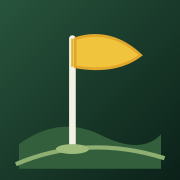
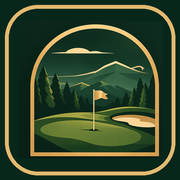
Fairway-v0.10.2
New Logo
Updated Iphone home screen icon
Top right version badge updated
redesigned start round selection
play a 9 hole course twice as 18
front 9/ back 9/ Full 18 selection
Automatically load saved tee details
Hide navigation when iphone keyboard opens
existing course emblems preserved

diff --git a/index.html b/index.html
@@ -13,14 +13,14 @@
 <link rel="stylesheet" href="./styles.css">
 </head>
 <body>
-<header><div class="brand"><span class="logo"><svg viewBox="0 0 64 64" fill="none" xmlns="http://www.w3.org/2000/svg"><path d="M7 52Q22 40 38 47T60 47V60H7Z" fill="#335f3d"/><path d="M5 59Q30 47 61 57" stroke="#8eaf72" stroke-width="2"/><path d="M25 13V53" stroke="#f2f1e4" stroke-width="2.5" stroke-linecap="round"/><path d="M26 13Q39 9 49 19Q40 25 26 23Z" fill="#f1c43e" stroke="#e2a82c" stroke-width="1"/><path d="M25 13L25 23" stroke="#e8b22b" stroke-width="1"/><ellipse cx="25" cy="54" rx="7" ry="2" fill="#9ebc7c"/></svg></span><div><h1>Fairway</h1><small>YOUR GOLF JOURNAL</small></div></div><span class="pill">v0.9.8</span></header>
+<header><div class="brand"><span class="logo"><img src="./assets/fairway-logo.png" alt="Fairway logo"></span><div><h1>Fairway</h1><small>YOUR GOLF JOURNAL</small></div></div><span class="pill">v0.10.2</span></header>
 <nav aria-label="Main navigation"><button data-tab="home" class="active"><span class="nav-icon" aria-hidden="true">⌂</span><span>Home</span></button><button data-tab="play"><span class="nav-icon" aria-hidden="true">⚑</span><span>Play</span></button><button data-tab="courses"><span class="nav-icon" aria-hidden="true">▤</span><span>Courses</span></button><button data-tab="history"><span class="nav-icon" aria-hidden="true">◷</span><span>History</span></button><button data-tab="player"><span class="nav-icon" aria-hidden="true">♙</span><span>Player</span></button><button data-tab="achievements"><span class="nav-icon" aria-hidden="true">★</span><span>Awards</span></button></nav>
 <main><div id="notice"></div>
 <section id="home"><div class="card hero home-hero"><small class="eyebrow">WELCOME TO FAIRWAY</small><h2>Every round tells a story.</h2><p>Track your progress. Celebrate your achievements. Enjoy every round.</p><button class="hero-cta" onclick="tab('play')">⚑ &nbsp; Start a round <span aria-hidden="true">→</span></button></div><div class="card featured-award" id="featuredAward"><small class="eyebrow">YOUR TOP ACHIEVEMENT</small><div class="featured-content"><span class="featured-emoji" id="featuredEmoji">🏆</span><div><h3 id="featuredTitle">Your first achievement awaits</h3><p id="featuredDescription">Save a round to start collecting awards.</p></div></div><button class="text-action" onclick="tab('achievements')">View all awards →</button></div><div class="section-head journey-heading"><h3>Your golf journey</h3><small>ALL-TIME STATISTICS</small></div><div class="home-stat-grid"><div class="home-stat"><span class="stat-icon">◷</span><strong id="nRounds">0</strong><small>Rounds played</small></div><div class="home-stat"><span class="stat-icon">⚑</span><strong id="nHoles">0</strong><small>Holes completed</small></div><div class="home-stat"><span class="stat-icon">◎</span><strong id="nPars">0</strong><small>Pars made</small></div><div class="home-stat"><span class="stat-icon">↗</span><strong id="nBest">—</strong><small>Best round to par</small></div></div><div class="card" id="handicapCard"><div class="section-head"><h3>Fairway handicap estimate</h3><span class="pill">BETA</span></div><div class="hcp-number" id="hcpValue">—</div><button class="text-action" onclick="tab('player')">View handicap progress →</button><p class="muted" id="hcpDescription">Save rated rounds to see your personal estimate.</p><details><summary>How is this calculated?</summary><p class="muted" style="font-size:13px">Personal playing-level estimate from all saved 9- and 18-hole rounds with valid ratings. For 9 holes, Fairway doubles the played-nine differential as a transparent approximation; this is NOT the WHS expected-score method. For 18 holes, net double bogey is applied only when complete Stroke Index data and an official reference HI are available. Nine-hole results remain approximate; exceptional scores, caps and other WHS rules are not applied. Not an official Handicap Index.</p></details></div><div class="card latest-round" id="latestRoundCard"><div class="section-head"><h3>Last time on the course</h3><span class="pill">LATEST ROUND</span></div><p class="muted" id="latestEmpty">Your latest round will appear here once you've saved a scorecard.</p><div id="latestDetails" class="hidden"><small id="latestDate"></small><div class="latest-score-row"><div><h3 id="latestCourse"></h3><div id="latestTee"></div></div><div class="latest-number"><strong id="latestScore"></strong><span id="latestDiff"></span></div></div><button class="text-action" onclick="tab('history')">View round history →</button></div></div><div class="card data-card"><div class="section-head"><h3>Your data</h3><span class="data-lock" aria-hidden="true">♧</span></div><p class="muted">Your rounds and courses are saved on this device, not in an online account. Export a backup regularly so you don't lose your golf journey if browser data is cleared.</p><div class="actions"><button onclick="exportBackup()">Export backup</button><button class="secondary" onclick="document.getElementById('backup').click()">Import backup</button></div><input id="backup" type="file" accept=".json,application/json" hidden onchange="importBackup(event)"></div></section>
 <section id="courses" class="hidden"><div class="section-head"><h2>My courses</h2><button id="addCourseToggle" class="course-add-toggle" type="button" onclick="openCourseEditor()">+ Add Course</button></div><div class="card"><h3>Saved courses</h3><div id="courseList"></div></div><div id="courseEditor" class="card hidden"><h3 id="courseFormHeading">Add a course</h3><label for="courseName">Course name</label><input id="courseName" placeholder="e.g. Golf Meggen"><label for="courseTees">Tees</label><select id="courseTees"><option value="Yellow">Yellow tees</option><option value="White">White tees</option><option value="Red">Red tees</option><option value="Blue">Blue tees</option><option value="Black">Black tees</option><option value="Orange">Orange tees</option><option value="Green">Green tees</option></select><label for="courseHoles">Number of holes</label><select id="courseHoles" onchange="resizeCoursePars()"><option value="9">9 holes</option><option value="18">18 holes</option></select><label for="courseCR">Course Rating (optional)</label><input id="courseCR" type="number" inputmode="decimal" step="0.1" placeholder="e.g. 35.7"><label for="courseSlope">Slope Rating (optional)</label><input id="courseSlope" type="number" inputmode="numeric" placeholder="e.g. 138"><div class="card" style="margin-bottom:0;padding:13px;background:#103023"><div class="section-head"><h3 style="margin:0">Set hole pars, distances & Stroke Index</h3><select id="autoPar" aria-label="Auto-fill all pars" style="width:auto;max-width:145px;font-size:13px;padding:9px 30px 9px 10px;min-height:42px" onchange="autoFillPars(this.value)"><option value="">Auto-fill</option><option value="3">All par 3</option><option value="4">All par 4</option><option value="5">All par 5</option></select></div><p class="muted" style="font-size:13px;margin:9px 0">Tap ▲ or ▼ to adjust par, and enter the distance from your selected tees. Distances and Stroke Index are optional. For Stroke Index, enter each number once (1–9 or 1–18).</p><label for="courseDistanceUnit">Distance unit</label><select id="courseDistanceUnit" onchange="changeCourseDistanceUnit(this.value)"><option value="m">Metres (m)</option><option value="yd">Yards (yd)</option></select><div class="pargrid distance-grid" id="courseParGrid"></div><div class="totalpar"><div><strong style="font-size:14px">Total distance</strong><br><small>Known holes only</small></div><strong id="courseTotalDistance">—</strong></div><div class="totalpar"><div><strong style="font-size:14px">Total par</strong><br><small id="parCount">9 holes</small></div><strong id="courseTotalPar">36</strong></div></div><p><button id="courseSaveButton" style="width:100%" onclick="addCourse()">Save course</button><button id="courseCancelButton" class="secondary hidden" style="width:100%;margin-top:8px" onclick="cancelEditCourse()">Cancel editing</button></p></div></section>
-<section id="play" class="hidden"><h2>Play a round</h2><div id="setup" class="card"><label for="courseSelect">Select a saved course</label><select id="courseSelect"></select><label for="roundConfig">Tees and holes</label><select id="roundConfig"></select><label for="roundDate">Date</label><input id="roundDate" type="date"><label class="player-check"><input type="checkbox" id="roundEligible" onchange="if(this.checked)document.getElementById('roundTest').checked=false"> WHS-eligible round (for separate estimate)</label><label class="player-check"><input type="checkbox" id="roundTest" onchange="if(this.checked)document.getElementById('roundEligible').checked=false"> Test round (exclude from both HCP estimates)</label><div class="tracking-choice"><strong>How would you like to play?</strong><label class="tracking-option"><input type="radio" name="roundMode" value="score" checked><span><b>Quick scorecard</b><small>Just enter strokes for each hole</small></span></label><label class="tracking-option"><input type="radio" name="roundMode" value="detailed"><span><b>Detailed round</b><small>Strokes, putts, tee shots, approaches and penalties</small></span></label></div><p><button onclick="startRound()">Start scorecard →</button></p><small>Set up your courses in the Courses tab first.</small></div><div id="playing" class="hidden"><div class="card"><div class="score-top"><div><small id="activeCourse"></small><div id="activeTeeBadge"></div><h2 id="activeHole" style="margin:5px 0"></h2><span id="activeProgress" class="pill"></span></div><div style="text-align:right"><small>ROUND TOTAL</small><div class="number" id="activeTotal">0</div><small id="activeDiff">E</small></div></div><div class="holes" id="holeNav"></div></div><div class="card"><div class="par-display"><span class="hole-indicator"><small>CURRENT HOLE</small><strong id="holeNumberDisplay">Hole 1</strong></span><span class="par-indicator"><small>HOLE PAR</small><strong id="holeParDisplay">Par 4</strong></span></div><p id="holeStrokeIndexDisplay" style="text-align:center;margin:0 0 8px"><span class="si-pill">Stroke Index —</span></p><p id="holeDistanceDisplay" class="muted" style="text-align:center;margin:-4px 0 15px">Distance not entered</p><label style="text-align:center">STROKES</label><div class="stepper"><button class="secondary" onclick="changeStrokes(-1)">−</button><strong id="strokesNumber">—</strong><button onclick="changeStrokes(1)">+</button></div><p class="muted" id="holeStatus" style="text-align:center"></p><div id="holeTracking" class="hole-tracking hidden"><h3>Shot tracking <small class="pill">OPTIONAL FIELDS</small></h3><div class="tracking-grid"><label>Putts<input id="trackPutts" type="number" inputmode="numeric" min="0" max="15" placeholder="—" onchange="setHoleStat('putts',this.value)"></label><label>Tee shot direction<select id="trackTee" onchange="setHoleStat('tee',this.value)"><option value="">Not recorded</option><option value="straight">Straight</option><option value="left">Left</option><option value="right">Right</option></select></label><label>Shot shape<select id="trackShape" onchange="setHoleStat('shape',this.value)"><option value="">Not recorded</option><option value="straight">Straight</option><option value="draw">Draw</option><option value="fade">Fade</option><option value="hook">Hook</option><option value="slice">Slice</option></select></label><label>Approach<select id="trackApproach" onchange="setHoleStat('approach',this.value)"><option value="">Not recorded</option><option value="green">Green hit</option><option value="short">Short</option><option value="long">Long</option><option value="left">Left</option><option value="right">Right</option></select></label><label>Penalty strokes<input id="trackPenalties" type="number" inputmode="numeric" min="0" max="20" placeholder="—" onchange="setHoleStat('penalties',this.value)"></label><label>Out of bounds<select id="trackOb" onchange="setHoleStat('ob',this.value)"><option value="">Not recorded</option><option value="no">No</option><option value="yes">Yes</option></select></label></div></div><div class="actions"><button class="secondary" onclick="moveHole(-1)">← Previous</button><button onclick="moveHole(1)">Next →</button></div></div><div class="card"><div class="actions"><button onclick="finishRound()">Finish round</button><button class="danger" onclick="discardRound()">Discard</button></div><p class="muted">Your unfinished round saves automatically.</p></div></div></section>
-<section id="history" class="hidden"><div class="section-head"><h2>Round history</h2><span class="pill" id="historyCount">0 rounds</span></div><div id="historyList"></div></section><section id="editRound" class="hidden"><div class="section-head"><h2>Edit round</h2><span class="pill">v0.10</span></div><div class="card"><h3 id="editCourseName"></h3><div id="editTeeBadge"></div><label for="editTeeSelect">Tees played</label><select id="editTeeSelect" onchange="changeEditedRoundTees(this.value)"></select><p id="editTeeHint" class="muted" style="font-size:13px">Select the tees you actually played. Fairway will use their saved Course Rating and Slope.</p><label for="editFormat">Holes played</label><select id="editFormat" onchange="changeEditedRoundFormat(this.value)"></select><label for="editDate">Date played</label><input type="date" id="editDate"><p class="muted" style="font-size:13px">The date is displayed as DD.MM.YYYY in History. Your phone may display the date picker in its own regional format.</p><label class="player-check"><input type="checkbox" id="editEligible" onchange="if(this.checked)document.getElementById('editTest').checked=false"> WHS-eligible round</label><label class="player-check"><input type="checkbox" id="editTest" onchange="if(this.checked)document.getElementById('editEligible').checked=false"> Test round (exclude from HCP)</label><h3 style="margin-top:22px">Hole-by-hole scores</h3><div id="editHoleList"></div><div class="totalpar"><strong style="font-size:14px">Updated total</strong><strong id="editTotal">0</strong></div><div class="actions" style="margin-top:18px"><button onclick="saveEditedRound()">Save changes</button><button class="secondary" onclick="cancelEditRound()">Cancel</button></div></div></section>
-<section id="player" class="hidden"><div class="section-head"><h2>My Player</h2><span class="pill">YOUR GOLF JOURNEY</span></div><div class="card"><div class="section-head"><h3>Handicap overview</h3><span class="pill">PERSONAL ESTIMATES</span></div><div class="player-grid"><div class="player-metric"><small>PERSONAL HCP</small><strong id="playerPersonalHcp">—</strong><small>All rated, non-test rounds</small></div><div class="player-metric"><small>WHS-STYLE ESTIMATE</small><strong id="playerWhsHcp">—</strong><small>Marked eligible rounds</small></div></div><div class="official-hcp-display"><small>YOUR OFFICIAL SWISS GOLF HCP</small><strong id="officialHcpDisplay">—</strong><small>Manually entered · used as a reference for eligible score adjustments</small></div><details class="edit-panel"><summary>✎ Edit official handicap</summary><label for="officialHcp">Update official Swiss Golf Handicap Index</label><input id="officialHcp" type="number" inputmode="decimal" min="0" max="54" step="0.1" placeholder="e.g. 51.6" onchange="setOfficialHcp(this.value)"></details><p class="muted" style="font-size:13px">Official HCP is manually entered. Both Fairway calculations remain estimates: 9-hole scores still use an approximation. 18-hole net double bogey requires complete Stroke Index data and your entered official HI; other WHS adjustments remain outstanding.</p><button class="secondary" onclick="tab('hcp')">View handicap chart & differentials →</button></div><div class="card"><div class="section-head"><h3>My golf bag</h3><span class="pill">STOCK DISTANCES</span></div><div class="bag-unit"><label for="clubUnit">Distance unit</label><select id="clubUnit" onchange="setClubUnit(this.value)"><option value="m">Metres</option><option value="yd">Yards</option></select></div><div id="clubDistanceChart" class="club-distance-chart"></div><details class="edit-panel" id="clubEditor"><summary>✎ Edit clubs</summary><div id="clubList"></div><div class="actions"><button onclick="addClub()">+ Add club</button></div></details><p class="muted" style="font-size:13px">Enter your typical carry distance. Your clubs are saved on this device and included in backups.</p></div><div class="card"><div class="section-head"><h3>Performance</h3><span class="pill">TRACKED ROUNDS</span></div><div id="performanceSummary"></div><p class="muted" style="font-size:12px">Only entered tracking data is counted. Older score-only rounds are not treated as missed shots.</p></div></section><section id="hcp" class="hidden"><div class="section-head"><h2>Handicap progress</h2><button class="secondary" onclick="tab('player')">← Player</button><span class="pill">PERSONAL ESTIMATE</span></div><p class="muted">Every saved round with a valid Course Rating and Slope Rating contributes automatically. Editing or deleting rounds recalculates your history.</p><div class="hcp-overview"><div class="card"><small>FAIRWAY HCP</small><div class="hcp-number" id="hcpDetailValue">—</div><small id="hcpTrend">Your playing-level estimate</small></div><div class="card"><small>ROUNDS WITH RATINGS</small><div class="hcp-number" id="hcpRoundCount">0</div><small id="hcpHoleCount">0 holes recorded</small></div></div><div class="card"><div class="section-head"><h3>Handicap journey</h3><span class="pill">ROUND BY ROUND</span></div><div id="hcpChart" class="hcp-chart"></div><p class="muted" id="hcpChartCaption">Add rounds to see your progression.</p></div><div class="card"><h3>Round differentials</h3><div id="hcpRoundList"></div></div><div class="card"><h3>How Fairway estimates HCP</h3><p class="muted">This is a personal playing-level indicator, <strong>not an official WHS Handicap Index</strong>. Each rated 18-hole round uses (adjusted gross score − Course Rating − PCC) × 113 / Slope. Adjustment requires a complete Stroke Index and your entered official HI; otherwise gross score is used. For 9-hole rounds we double that nine-hole differential as a simple approximation, NOT the official WHS expected-score calculation. We use a WHS-inspired best-differentials selection over the latest 20 rated rounds, but do not automatically determine PCC, exceptional-score adjustments, soft/hard caps, or other official requirements. An entered official HI is only a reference, not a reconstructed historical HI. Unrated rounds remain in History and Awards but cannot produce a differential. Negative results may occur for exceptionally good rounds.</p></div></section><section id="achievements" class="hidden"><div class="section-head"><h2>Achievements</h2><span class="pill">Career totals</span></div><p class="muted">Earned from your completed, saved rounds. Delete a round and its achievements disappear automatically.</p><div class="award-grid" id="awardGrid"></div><div class="card"><h3>Career milestones</h3><div id="milestoneList"></div></div></section><div class="footer">FAIRWAY v0.10.0 · BUILT FOR THE LOVE OF GOLF</div></main>
+<section id="play" class="hidden"><h2>Play a round</h2><div id="setup" class="card"><div class="u-play-heading"><span class="u-play-icon" id="playCourseIcon"></span><div><strong>Ready to play?</strong><small>Choose your course and start scoring</small></div></div><label for="courseSelect">Golf course</label><select id="courseSelect"></select><label>Round length</label><div class="u-choice-row" id="playLengths"><button type="button" data-length="9" onclick="uSetPlayLength(9)">9 holes</button><button type="button" data-length="18" onclick="uSetPlayLength(18)">18 holes</button></div><div id="playNineWrap" class="hidden"><label for="playNine">Which nine?</label><select id="playNine" onchange="uUpdateRoundOptions()"><option value="front">Front 9</option><option value="back">Back 9</option></select></div><label for="playTee">Tees</label><select id="playTee" onchange="uUpdateRoundOptions()"></select><div id="playCourseSummary" class="u-play-summary"></div><select id="roundConfig" class="hidden" aria-label="Resolved tee configuration"></select><label for="roundDate">Date</label><input id="roundDate" type="date"><label class="player-check"><input type="checkbox" id="roundEligible" onchange="if(this.checked)document.getElementById('roundTest').checked=false"> WHS-eligible round (for separate estimate)</label><label class="player-check"><input type="checkbox" id="roundTest" onchange="if(this.checked)document.getElementById('roundEligible').checked=false"> Test round (exclude from both HCP estimates)</label><div class="tracking-choice"><strong>How would you like to play?</strong><label class="tracking-option"><input type="radio" name="roundMode" value="score" checked><span><b>Quick scorecard</b><small>Just enter strokes for each hole</small></span></label><label class="tracking-option"><input type="radio" name="roundMode" value="detailed"><span><b>Detailed round</b><small>Strokes, putts, tee shots, approaches and penalties</small></span></label></div><p><button onclick="startRound()">Start scorecard →</button></p><small>Set up your courses in the Courses tab first.</small></div><div id="playing" class="hidden"><div class="card"><div class="score-top"><div><small id="activeCourse"></small><div id="activeTeeBadge"></div><h2 id="activeHole" style="margin:5px 0"></h2><span id="activeProgress" class="pill"></span></div><div style="text-align:right"><small>ROUND TOTAL</small><div class="number" id="activeTotal">0</div><small id="activeDiff">E</small></div></div><div class="holes" id="holeNav"></div></div><div class="card"><div class="par-display"><span class="hole-indicator"><small>CURRENT HOLE</small><strong id="holeNumberDisplay">Hole 1</strong></span><span class="par-indicator"><small>HOLE PAR</small><strong id="holeParDisplay">Par 4</strong></span></div><p id="holeStrokeIndexDisplay" style="text-align:center;margin:0 0 8px"><span class="si-pill">Stroke Index —</span></p><p id="holeDistanceDisplay" class="muted" style="text-align:center;margin:-4px 0 15px">Distance not entered</p><label style="text-align:center">STROKES</label><div class="stepper"><button class="secondary" onclick="changeStrokes(-1)">−</button><strong id="strokesNumber">—</strong><button onclick="changeStrokes(1)">+</button></div><p class="muted" id="holeStatus" style="text-align:center"></p><div id="holeTracking" class="hole-tracking hidden"><h3>Shot tracking <small class="pill">OPTIONAL FIELDS</small></h3><div class="tracking-grid"><label>Putts<input id="trackPutts" type="number" inputmode="numeric" min="0" max="15" placeholder="—" onchange="setHoleStat('putts',this.value)"></label><label>Tee shot direction<select id="trackTee" onchange="setHoleStat('tee',this.value)"><option value="">Not recorded</option><option value="straight">Straight</option><option value="left">Left</option><option value="right">Right</option></select></label><label>Shot shape<select id="trackShape" onchange="setHoleStat('shape',this.value)"><option value="">Not recorded</option><option value="straight">Straight</option><option value="draw">Draw</option><option value="fade">Fade</option><option value="hook">Hook</option><option value="slice">Slice</option></select></label><label>Approach<select id="trackApproach" onchange="setHoleStat('approach',this.value)"><option value="">Not recorded</option><option value="green">Green hit</option><option value="short">Short</option><option value="long">Long</option><option value="left">Left</option><option value="right">Right</option></select></label><label>Penalty strokes<input id="trackPenalties" type="number" inputmode="numeric" min="0" max="20" placeholder="—" onchange="setHoleStat('penalties',this.value)"></label><label>Out of bounds<select id="trackOb" onchange="setHoleStat('ob',this.value)"><option value="">Not recorded</option><option value="no">No</option><option value="yes">Yes</option></select></label></div></div><div class="actions"><button class="secondary" onclick="moveHole(-1)">← Previous</button><button onclick="moveHole(1)">Next →</button></div></div><div class="card"><div class="actions"><button onclick="finishRound()">Finish round</button><button class="danger" onclick="discardRound()">Discard</button></div><p class="muted">Your unfinished round saves automatically.</p></div></div></section>
+<section id="history" class="hidden"><div class="section-head"><h2>Round history</h2><span class="pill" id="historyCount">0 rounds</span></div><div id="historyList"></div></section><section id="editRound" class="hidden"><div class="section-head"><h2>Edit round</h2><span class="pill">v0.10.2</span></div><div class="card"><h3 id="editCourseName"></h3><div id="editTeeBadge"></div><label for="editTeeSelect">Tees played</label><select id="editTeeSelect" onchange="changeEditedRoundTees(this.value)"></select><p id="editTeeHint" class="muted" style="font-size:13px">Select the tees you actually played. Fairway will use their saved Course Rating and Slope.</p><label for="editFormat">Holes played</label><select id="editFormat" onchange="changeEditedRoundFormat(this.value)"></select><label for="editDate">Date played</label><input type="date" id="editDate"><p class="muted" style="font-size:13px">The date is displayed as DD.MM.YYYY in History. Your phone may display the date picker in its own regional format.</p><label class="player-check"><input type="checkbox" id="editEligible" onchange="if(this.checked)document.getElementById('editTest').checked=false"> WHS-eligible round</label><label class="player-check"><input type="checkbox" id="editTest" onchange="if(this.checked)document.getElementById('editEligible').checked=false"> Test round (exclude from HCP)</label><h3 style="margin-top:22px">Hole-by-hole scores</h3><div id="editHoleList"></div><div class="totalpar"><strong style="font-size:14px">Updated total</strong><strong id="editTotal">0</strong></div><div class="actions" style="margin-top:18px"><button onclick="saveEditedRound()">Save changes</button><button class="secondary" onclick="cancelEditRound()">Cancel</button></div></div></section>
+<section id="player" class="hidden"><div class="section-head"><h2>My Player</h2><span class="pill">YOUR GOLF JOURNEY</span></div><div class="card"><div class="section-head"><h3>Handicap overview</h3><span class="pill">PERSONAL ESTIMATES</span></div><div class="player-grid"><div class="player-metric"><small>PERSONAL HCP</small><strong id="playerPersonalHcp">—</strong><small>All rated, non-test rounds</small></div><div class="player-metric"><small>WHS-STYLE ESTIMATE</small><strong id="playerWhsHcp">—</strong><small>Marked eligible rounds</small></div></div><div class="official-hcp-display"><small>YOUR OFFICIAL SWISS GOLF HCP</small><strong id="officialHcpDisplay">—</strong><small>Manually entered · used as a reference for eligible score adjustments</small></div><details class="edit-panel"><summary>✎ Edit official handicap</summary><label for="officialHcp">Update official Swiss Golf Handicap Index</label><input id="officialHcp" type="number" inputmode="decimal" min="0" max="54" step="0.1" placeholder="e.g. 51.6" onchange="setOfficialHcp(this.value)"></details><p class="muted" style="font-size:13px">Official HCP is manually entered. Both Fairway calculations remain estimates: 9-hole scores still use an approximation. 18-hole net double bogey requires complete Stroke Index data and your entered official HI; other WHS adjustments remain outstanding.</p><button class="secondary" onclick="tab('hcp')">View handicap chart & differentials →</button></div><div class="card"><div class="section-head"><h3>My golf bag</h3><span class="pill">STOCK DISTANCES</span></div><div class="bag-unit"><label for="clubUnit">Distance unit</label><select id="clubUnit" onchange="setClubUnit(this.value)"><option value="m">Metres</option><option value="yd">Yards</option></select></div><div id="clubDistanceChart" class="club-distance-chart"></div><details class="edit-panel" id="clubEditor"><summary>✎ Edit clubs</summary><div id="clubList"></div><div class="actions"><button onclick="addClub()">+ Add club</button></div></details><p class="muted" style="font-size:13px">Enter your typical carry distance. Your clubs are saved on this device and included in backups.</p></div><div class="card"><div class="section-head"><h3>Performance</h3><span class="pill">TRACKED ROUNDS</span></div><div id="performanceSummary"></div><p class="muted" style="font-size:12px">Only entered tracking data is counted. Older score-only rounds are not treated as missed shots.</p></div></section><section id="hcp" class="hidden"><div class="section-head"><h2>Handicap progress</h2><button class="secondary" onclick="tab('player')">← Player</button><span class="pill">PERSONAL ESTIMATE</span></div><p class="muted">Every saved round with a valid Course Rating and Slope Rating contributes automatically. Editing or deleting rounds recalculates your history.</p><div class="hcp-overview"><div class="card"><small>FAIRWAY HCP</small><div class="hcp-number" id="hcpDetailValue">—</div><small id="hcpTrend">Your playing-level estimate</small></div><div class="card"><small>ROUNDS WITH RATINGS</small><div class="hcp-number" id="hcpRoundCount">0</div><small id="hcpHoleCount">0 holes recorded</small></div></div><div class="card"><div class="section-head"><h3>Handicap journey</h3><span class="pill">ROUND BY ROUND</span></div><div id="hcpChart" class="hcp-chart"></div><p class="muted" id="hcpChartCaption">Add rounds to see your progression.</p></div><div class="card"><h3>Round differentials</h3><div id="hcpRoundList"></div></div><div class="card"><h3>How Fairway estimates HCP</h3><p class="muted">This is a personal playing-level indicator, <strong>not an official WHS Handicap Index</strong>. Each rated 18-hole round uses (adjusted gross score − Course Rating − PCC) × 113 / Slope. Adjustment requires a complete Stroke Index and your entered official HI; otherwise gross score is used. For 9-hole rounds we double that nine-hole differential as a simple approximation, NOT the official WHS expected-score calculation. We use a WHS-inspired best-differentials selection over the latest 20 rated rounds, but do not automatically determine PCC, exceptional-score adjustments, soft/hard caps, or other official requirements. An entered official HI is only a reference, not a reconstructed historical HI. Unrated rounds remain in History and Awards but cannot produce a differential. Negative results may occur for exceptionally good rounds.</p></div></section><section id="achievements" class="hidden"><div class="section-head"><h2>Achievements</h2><span class="pill">Career totals</span></div><p class="muted">Earned from your completed, saved rounds. Delete a round and its achievements disappear automatically.</p><div class="award-grid" id="awardGrid"></div><div class="card"><h3>Career milestones</h3><div id="milestoneList"></div></div></section><div class="footer">FAIRWAY v0.10.2 · BUILT FOR THE LOVE OF GOLF</div></main>
 <script src="./js/storage.js"></script>
 <script src="./js/handicap.js"></script>
 <script src="./js/player.js"></script>

diff --git a/styles.css b/styles.css
@@ -142,3 +142,15 @@ input[type="checkbox"]{-webkit-appearance:checkbox!important;appearance:auto!imp
 .u-icon-option .u-course-icon{width:100%;max-width:82px;height:auto;aspect-ratio:1/1;border-radius:12px}
 .u-icon-option span{font-size:10px;line-height:1.2;text-align:center}
 @media(max-width:380px){.u-icon-picker{grid-template-columns:repeat(4,minmax(0,1fr));gap:5px}.u-icon-option span{font-size:9px}.u-course-icon{width:58px;height:58px}}
+
+/* v0.10.2 visual polish */
+.logo{overflow:hidden;background:#0c2a1e;border:1px solid #d5ae65;box-shadow:0 0 0 1px #385a43}
+.logo img{width:100%;height:100%;object-fit:cover;display:block}
+.u-play-heading{display:flex;gap:12px;align-items:center;margin-bottom:12px}
+.u-play-heading strong{font-size:20px;display:block}.u-play-heading small{display:block;margin-top:3px}
+.u-play-icon{width:66px;height:66px;flex:none;border-radius:16px;overflow:hidden;background:#0c2a1e;border:1px solid #9f8553}
+.u-play-icon img{width:100%;height:100%;object-fit:cover}
+.u-choice-row{display:flex;gap:9px}.u-choice-row button{flex:1;background:#284c3a;color:#e9eee6;border:1px solid #4d6b55}.u-choice-row button.selected{background:#d0b578;color:#10251c;border-color:#d0b578}
+.u-play-summary{margin-top:15px;padding:13px;border-radius:13px;border:1px solid #4b6a52;background:#102c22;color:#dce9da;font-size:13px;line-height:1.6}
+body.fw-keyboard-open nav{display:none!important}
+body.fw-keyboard-open main{padding-bottom:20px!important}
